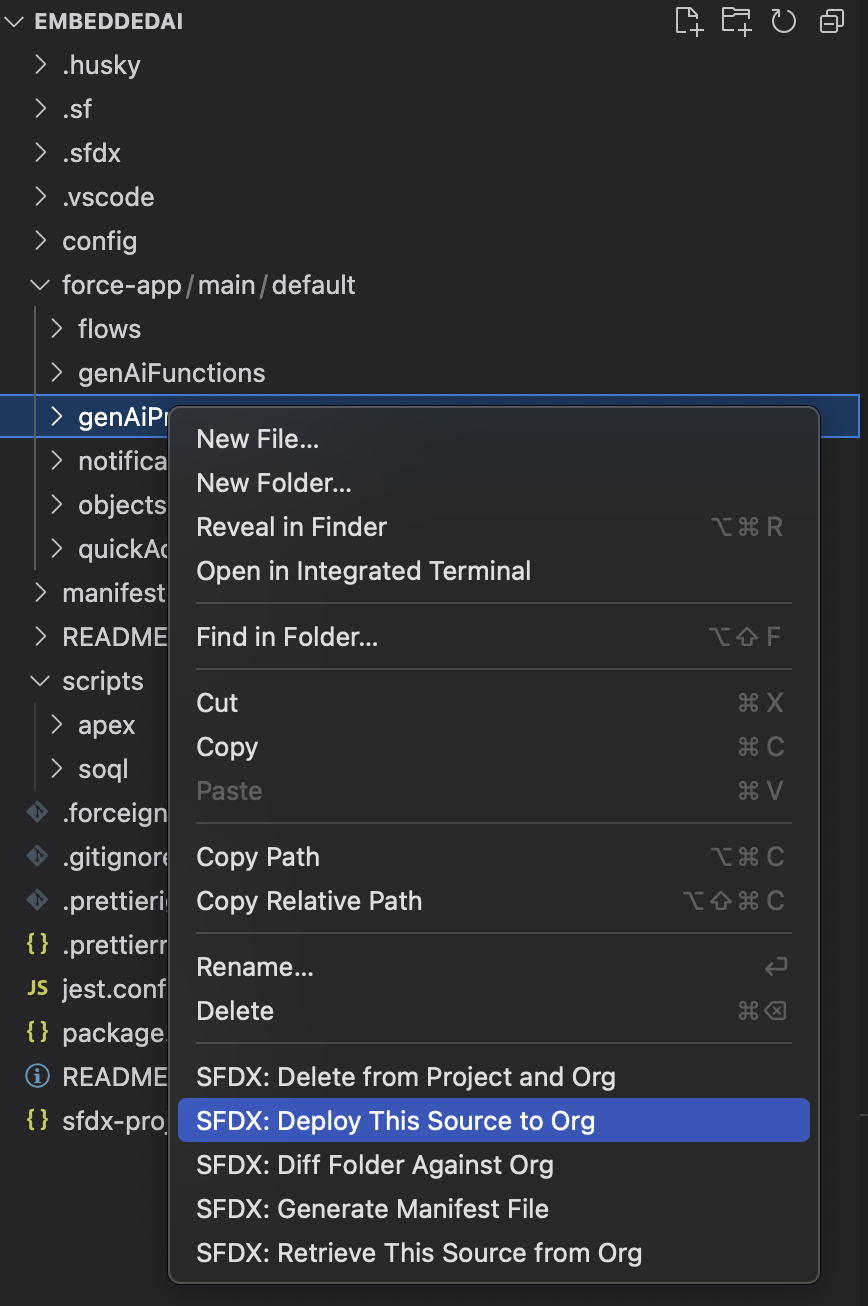
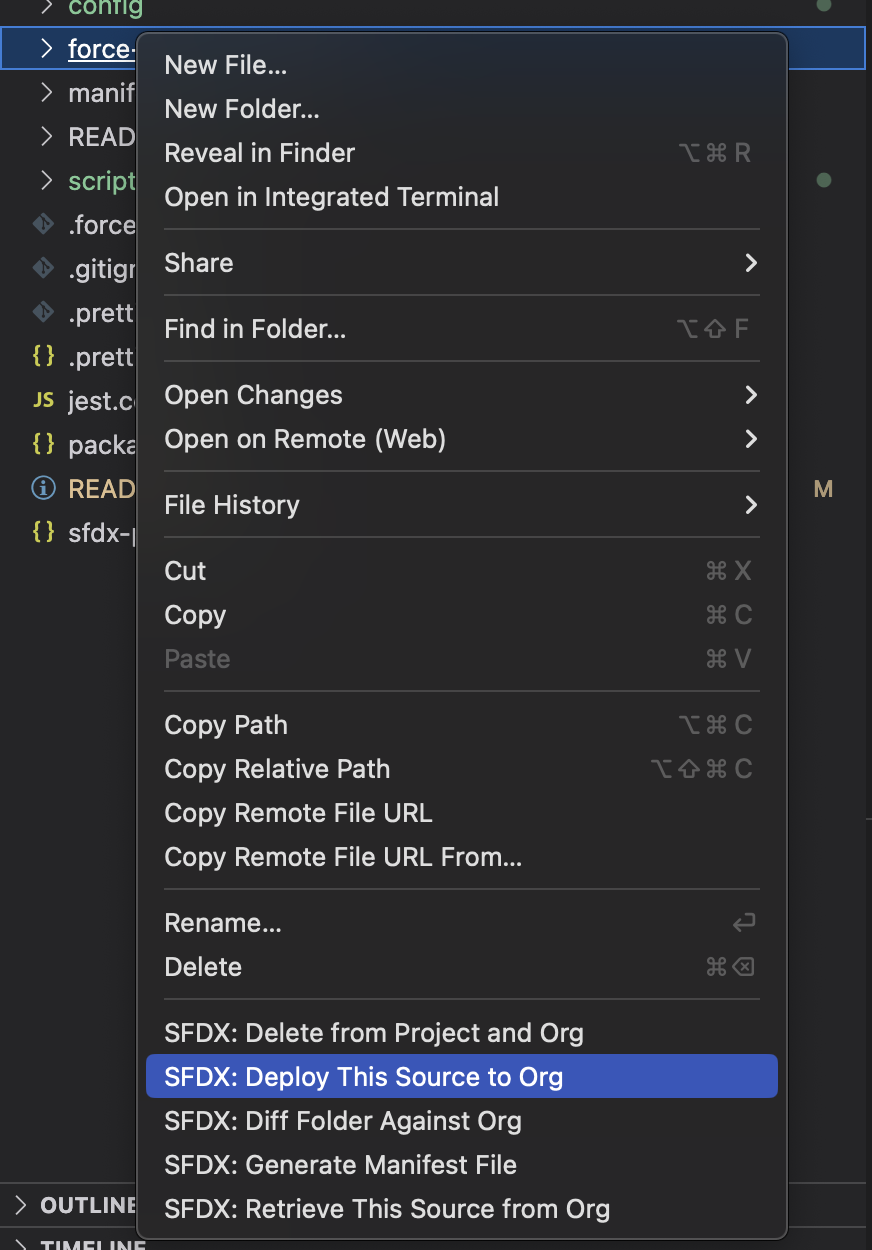
Review updates on README

diff --git a/README.md b/README.md
@@ -30,11 +30,11 @@
 
 1. Clone the [Repo](https://github.com/mbsf2022/EmbeddedAI.git) to get the metadata for the solution of the use case
     - git clone https://github.com/mbsf2022/EmbeddedAI.git
-2. In Visual Studio Code, OPEN the folder xyz
+2. In Visual Studio Code, OPEN the folder EnbeddedAI
 3. In Visual Studio Code, AUTHENTICATE to SDO Org
     - Open Command Palette or press Ctrl + Shift + P, then Select “SFDX: Authorize an Org“ and finally select Project Default and Allow Access
     - Alternatively, [Authorize SDO Org Using a Browser](https://developer.salesforce.com/docs/atlas.en-us.sfdx_dev.meta/sfdx_dev/sfdx_dev_auth_web_flow.htm)
-4. In Visual Studio Code, DEPLOY the below metadata to SDO Org by right-click on folder of metadata and select SFDX: Deploy This Source to Org 
+4. In Visual Studio Code, DEPLOY the below metadata to SDO Org by right-click on force-app folder and select SFDX: Deploy This Source to Org 
     - flows
     - genAiFunctions
     - genAiPromptTemplates
@@ -42,8 +42,8 @@
     - objects
     - quickActions
 
-        Note: If genAiFunctions deploy errors then use [this](https://login.salesforce.com/packaging/installPackage.apexp?p0=04tao000000myt7) 1GP package. Make sure to remove two flows (Shipping Policy Verification and Policy Violation Alert) from SDO Org in case you deployed them in this step since they are already in the 1GP package
-        <img src="./README-Images/7.png" width=300>
+        - <img src="./README-Images/7.png" width=300>
+    - Note: If you experience deployment errors related to "genAiFunctions" then use [this](https://login.salesforce.com/packaging/installPackage.apexp?p0=04tao000000myt7) unmanaged package to deploy it. Deploy the rest of the metadata listed in the above bullet points using the right-click approach described above on each individual folder, rather than right-clicking on the force-app folder. Make sure to remove two flows (Shipping Policy Verification and Policy Violation Alert) from SDO Org in case you already deployed them in this step since they are already in the unmanaged package
 5. For the Order Summary object, make the Custom with Order Quick Summary as the default Compact Layout
     - Setup -> Object Manager -> Order Summary object -> Compact Layouts -> Compact Layout Assignment -> Edit -> Select Custom with Order Quick Summary
 6. On Order Summary Record page, add Action - Order Quick Summary
